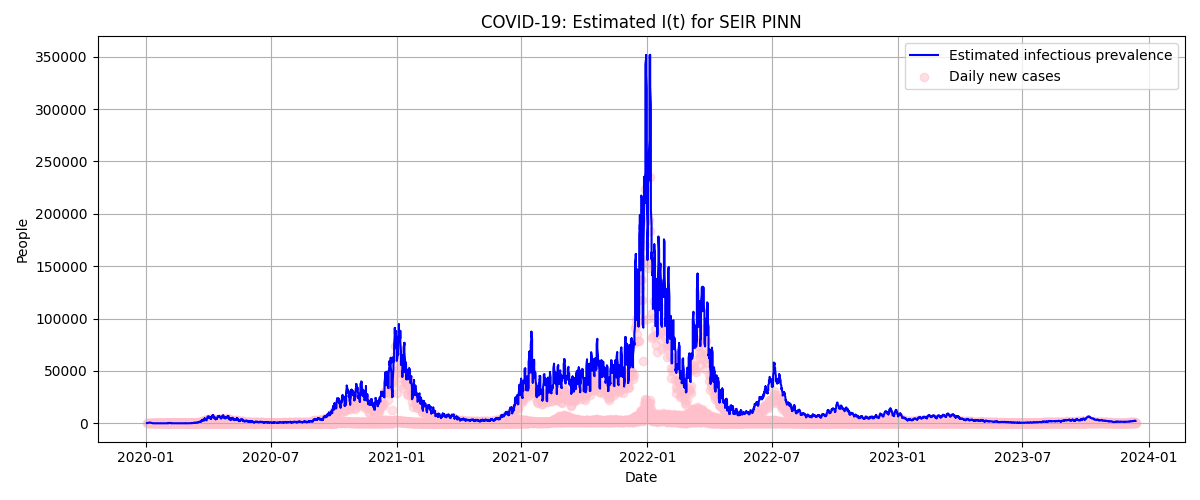
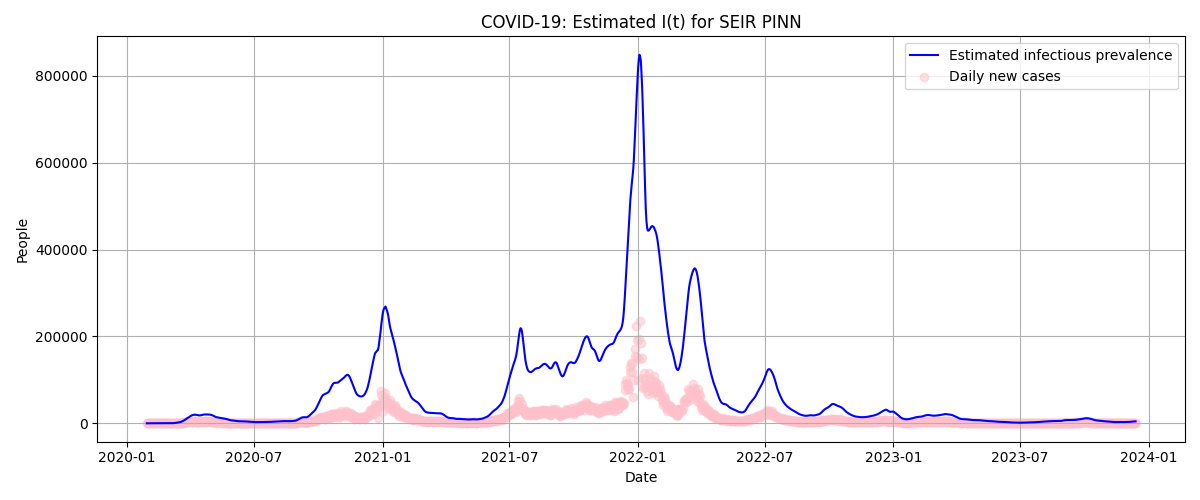
Split data by months for England only

diff --git a/split_covid_data_by_month.py b/split_covid_data_by_month.py
@@ -6,6 +6,12 @@ import matplotlib.pyplot as plt
 ### (Zixuan email)
 ### File name = nation_newCasesBySpecimenDate.csv
 data = pd.read_csv("/Users/oc25003/Desktop/Data/Cases/nation_newCasesBySpecimenDate.csv")
+
+### Filter for England only
+print(data.columns)
+print(data.head())
+data = data[data['area_name'] == 'England']
+
 ### Selecting only the date and the number of positive cases from the dataset
 data = data[['date', 'value']].rename(columns={'value': 'newCases'})
 ### Convert date column to date time format
